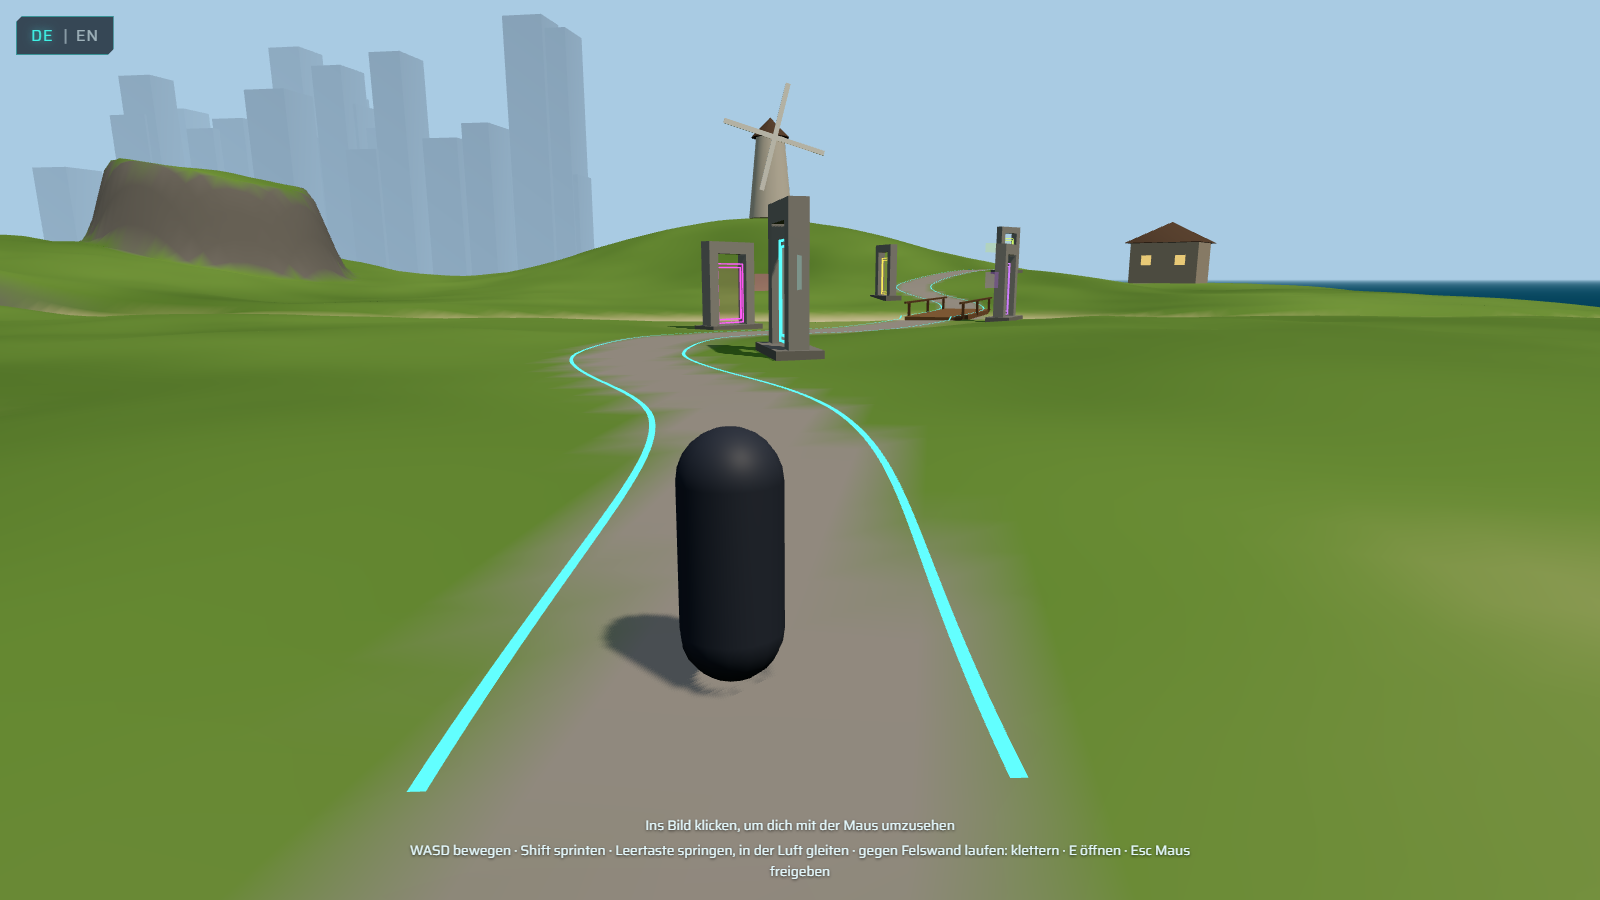
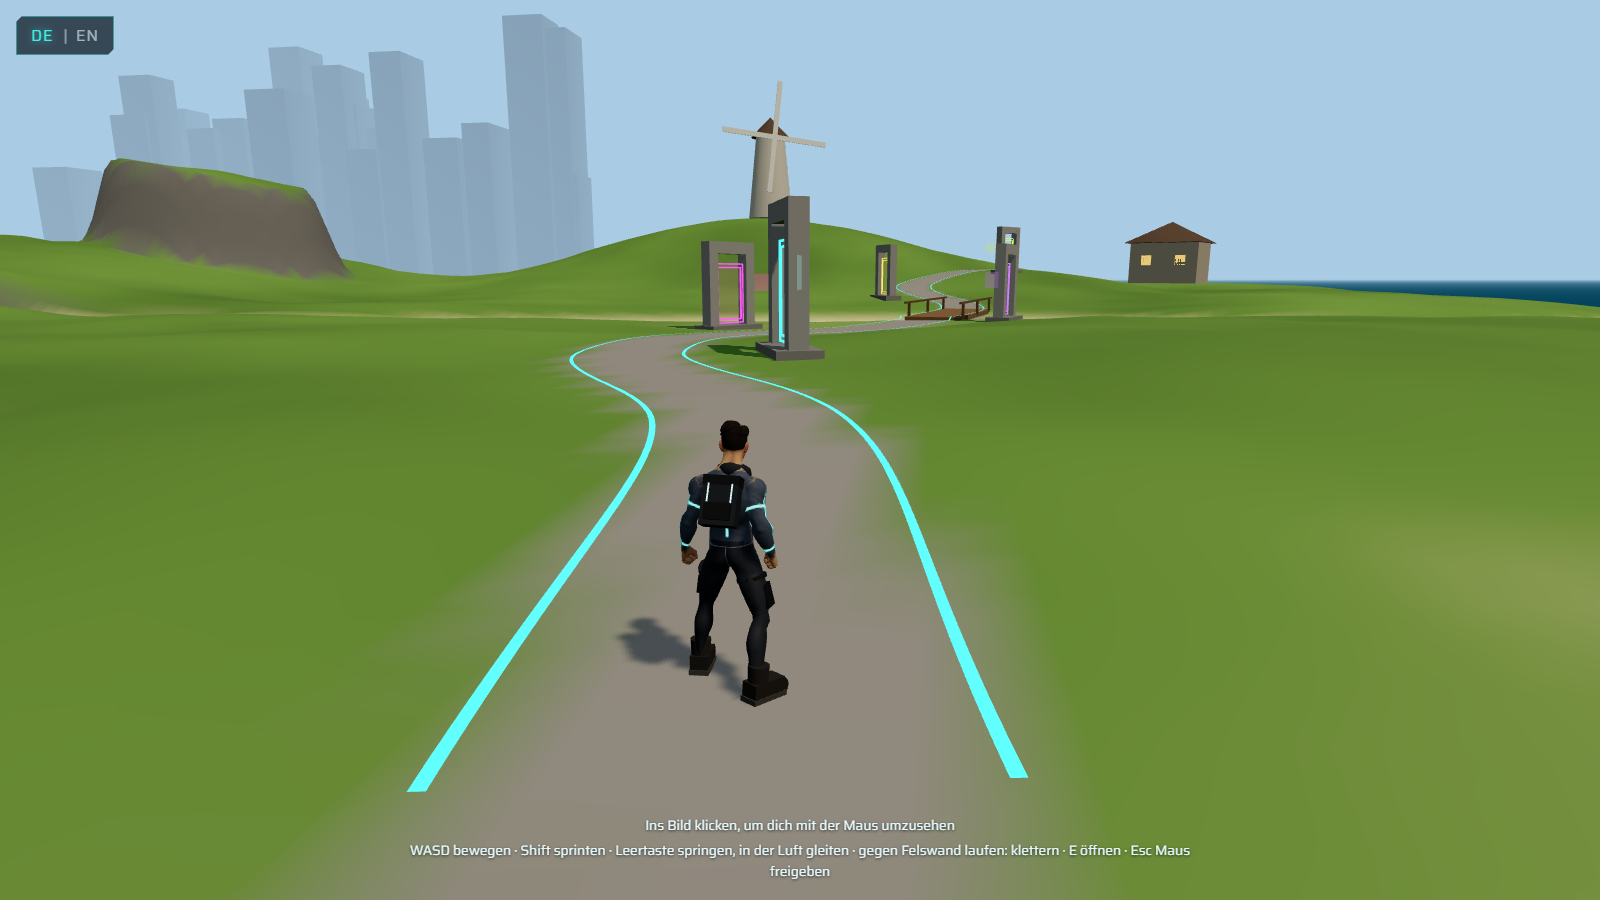
Tests und Screenshots: Charakter-Ansichten, Aktionsaufnahmen, Animationsprüfungen
char-*-Shots mit erzwungenem Animationszustand, screenshots:action aus der Spielkamera, Smoke-Test prüft Animationszustände; Gleiter-Tests zustandsbasiert statt zeitabhängig.

Changed region(s): [[0.375, 0.4667, 0.5, 0.7778], [0.4375, 0.0933, 0.5312, 0.2178]]

diff --git a/scripts/movement-tests.ts b/scripts/movement-tests.ts
@@ -9,6 +9,7 @@ import type { Page } from 'playwright';
 import {
   getPlayer,
   measureFps,
+  openGlider,
   speedBetween,
   teleport,
   waitForPlayer,
@@ -50,6 +51,8 @@ export async function runMovementTests(page: Page, check: Check) {
     p1 = await getPlayer(page);
     const sprintSpeed = speedBetween(p0, p1);
     check(sprintSpeed > walkSpeed * 1.4, 'Shift sprintet schneller als Gehen', `${walkSpeed.toFixed(1)} → ${sprintSpeed.toFixed(1)} m/s`);
+    check(p1.anim === 'sprint', 'Animation: Sprint', p1.anim);
+    check(walkSpeed > 3 && walkSpeed < 5.5, 'Gehtempo passt zur Jog-Animation', walkSpeed.toFixed(1));
     check(p1.stamina < 0.85, 'Sprinten verbraucht Ausdauer', `${(p1.stamina * 100).toFixed(0)} %`);
     check(
       (await page.getByTestId('stamina').getAttribute('data-visible')) === 'true',
@@ -83,6 +86,7 @@ export async function runMovementTests(page: Page, check: Check) {
     await waitSimSeconds(page, 1);
     const b = await getPlayer(page);
     check(Math.abs(b.y - a.y) < 0.3 && b.y > -1.6 && b.y < -0.6, 'Schwimmer treibt an der Oberfläche', `Füße y=${b.y.toFixed(2)}`);
+    check(b.anim === 'swim' && b.lift > 0.3, 'Animation: Schwimmen, Körper an die Oberfläche angehoben', `${b.anim}, Anhebung ${b.lift.toFixed(2)}`);
     const swimSpeed = speedBetween(a, b);
     check(swimSpeed > 1.5 && swimSpeed < 3.5, 'Schwimmen ist langsamer als Gehen', `${swimSpeed.toFixed(1)} m/s`);
 
@@ -119,6 +123,7 @@ export async function runMovementTests(page: Page, check: Check) {
     await keys.down(page, 'KeyW');
     const climbing = await waitForPlayer(page, "p.mode === 'climb'", 20000);
     check(climbing, 'Gegen Felswand laufen → Klettern startet');
+    check(await waitForPlayer(page, "p.anim === 'climb'", 2000), 'Animation: Kletterpose');
     const c0 = await getPlayer(page);
     await waitSimSeconds(page, 1);
     const c1 = await getPlayer(page);
@@ -188,11 +193,10 @@ export async function runMovementTests(page: Page, check: Check) {
     const topY = (await getPlayer(page)).y;
     await keys.down(page, 'KeyW');
     await waitForPlayer(page, `p.y < ${topY - 0.4} || p.x > ${rock.x + rock.radius - 1}`, 20000);
-    await page.keyboard.press('Space'); // jump (or coyote jump) off the edge
-    await waitSimSeconds(page, 0.35);
-    await page.keyboard.press('Space'); // open the glider
-    const gliding = await waitForPlayer(page, "p.mode === 'glide'", 3000);
+    // Jump off the edge and open the glider once high enough above the ground.
+    const gliding = await openGlider(page);
     check(gliding, 'Von der Kante springen, Leertaste in der Luft → Gleiter öffnet');
+    check(await waitForPlayer(page, "p.anim === 'glide'", 2000), 'Animation: Hängepose am Gleiter');
     const g0 = await getPlayer(page);
     await waitSimSeconds(page, 1.2);
     const g1 = await getPlayer(page);
@@ -211,13 +215,7 @@ export async function runMovementTests(page: Page, check: Check) {
     await teleport(page, rock.x + rock.radius - 4, rock.z, yawFor(1, 0));
     await keys.down(page, 'KeyW');
     await waitForPlayer(page, `p.y < ${topY - 0.4} || p.x > ${rock.x + rock.radius - 1}`, 20000);
-    await page.keyboard.press('Space');
-    let opened = false;
-    for (let i = 0; i < 4 && !opened; i++) {
-      await waitSimSeconds(page, 0.25);
-      await page.keyboard.press('Space');
-      opened = await waitForPlayer(page, "p.mode === 'glide'", 1000);
-    }
+    const opened = await openGlider(page);
     await waitSimSeconds(page, 0.3);
     await page.keyboard.press('Space');
     const closed = await waitForPlayer(page, "p.mode === 'air' || p.mode === 'ground'", 3000);

diff --git a/scripts/action-shots.ts b/scripts/action-shots.ts
@@ -1,0 +1,84 @@
+/**
+ * Screenshots from the real follow camera while the character actually moves:
+ * climbing, pulling up, gliding, swimming and sprinting.
+ *
+ *   npm run build && npm run screenshots:action
+ */
+import { mkdir } from 'node:fs/promises';
+import { resolve } from 'node:path';
+import type { Page } from 'playwright';
+import { waitForScene, withPreviewPage } from './browser.ts';
+import { openGlider, teleport, waitForPlayer, waitSimSeconds, yawFor, type DebugWindow } from './debug-api.ts';
+
+const OUT_DIR = resolve('docs/screenshots');
+const only = process.argv.slice(2);
+await mkdir(OUT_DIR, { recursive: true });
+
+async function shot(page: Page, name: string) {
+  if (only.length && !only.includes(name)) return;
+  const file = resolve(OUT_DIR, `action-${name}.png`);
+  await page.screenshot({ path: file });
+  console.log(`• ${name} → ${file}`);
+}
+
+await withPreviewPage(async (page, baseUrl) => {
+  await page.goto(`${baseUrl}?debug`);
+  await waitForScene(page);
+  const rock = await page.evaluate(() => (window as DebugWindow).__debug!.climbRock());
+  const cam = (pitch: number, distance: number) =>
+    page.evaluate(([p, d]) => (window as DebugWindow).__debug!.setCamera(p!, d!), [pitch, distance] as const);
+
+  // Climbing the rock (camera behind and slightly below).
+  await cam(-0.05, 4.5);
+  await teleport(page, rock.x + rock.radius + 4, rock.z, yawFor(-1, 0));
+  await page.keyboard.down('KeyW');
+  await waitForPlayer(page, "p.mode === 'climb'", 20000);
+  await waitSimSeconds(page, 1.6);
+  await shot(page, 'climb');
+  await waitForPlayer(page, "p.mode === 'mantle'", 20000);
+  await waitSimSeconds(page, 0.15);
+  await shot(page, 'mantle');
+  await page.keyboard.up('KeyW');
+  await waitForPlayer(page, "p.mode === 'ground'", 10000);
+
+  // Gliding off the rock.
+  await cam(-0.15, 6);
+  await teleport(page, rock.x + rock.radius - 4, rock.z, yawFor(1, 0));
+  const topY = (await page.evaluate(() => (window as DebugWindow).__debug!.player())).y;
+  await page.keyboard.down('KeyW');
+  await waitForPlayer(page, `p.y < ${topY - 0.4} || p.x > ${rock.x + rock.radius - 1}`, 20000);
+  await openGlider(page);
+  await waitSimSeconds(page, 0.8);
+  await shot(page, 'glide');
+  await page.keyboard.up('KeyW');
+  await waitForPlayer(page, "p.mode === 'ground' || p.mode === 'swim'", 30000);
+
+  // Swimming.
+  await cam(-0.2, 5);
+  await teleport(page, 2, 54, yawFor(0, 1));
+  await page.keyboard.down('KeyW');
+  await waitForPlayer(page, "p.mode === 'swim'", 30000);
+  await waitSimSeconds(page, 1.5);
+  await page.evaluate((y) => (window as DebugWindow).__debug!.setYaw(y), yawFor(1, 0));
+  await waitSimSeconds(page, 1.2);
+  await shot(page, 'swim');
+  await page.keyboard.up('KeyW');
+  await waitSimSeconds(page, 1.5);
+  await shot(page, 'swim-idle');
+
+  // Sprinting along the path.
+  await cam(-0.2, 5.5);
+  await teleport(page, 10, 25, yawFor(1, 0));
+  await page.keyboard.down('KeyW');
+  await page.keyboard.down('ShiftLeft');
+  await waitSimSeconds(page, 1.2);
+  await shot(page, 'sprint');
+  await page.keyboard.up('ShiftLeft');
+  await page.keyboard.up('KeyW');
+
+  // Jump.
+  await waitSimSeconds(page, 0.8);
+  await page.keyboard.press('Space');
+  await waitSimSeconds(page, 0.3);
+  await shot(page, 'jump');
+});

diff --git a/src/systems/shots.ts b/src/systems/shots.ts
@@ -13,6 +13,13 @@ export interface ShotConfig {
   player: 'spawn' | { portalIndex: number };
   pitch?: number;
   distance?: number;
+  /**
+   * Fixed camera relative to the player at spawn: metres in front, to the
+   * right and above the feet, looking at `lookHeight` above the feet.
+   */
+  facePlayer?: { front: number; right: number; up: number; lookHeight: number };
+  /** Force a character animation state (see Character.tsx). */
+  animState?: string;
   /** Open the overlay of the portal the player stands at. */
   openOverlay?: boolean;
 }
@@ -28,6 +35,13 @@ export const SHOTS = {
     fixedCamera: { position: [-38, 20, -2], target: [-74, 7, -26] },
     player: 'spawn',
   },
+  /** Character close-ups (Phase 3), compare with 06-character-sheet.png. */
+  'char-idle': { player: 'spawn', facePlayer: { front: 3, right: 0.9, up: 1.2, lookHeight: 0.95 }, animState: 'idle' },
+  'char-run': { player: 'spawn', facePlayer: { front: 3, right: 1.6, up: 1.1, lookHeight: 0.95 }, animState: 'jog' },
+  'char-climb': { player: 'spawn', facePlayer: { front: -2.6, right: 1.4, up: 1.4, lookHeight: 1.1 }, animState: 'climb' },
+  'char-glide': { player: 'spawn', facePlayer: { front: 3.6, right: 1.4, up: 1.0, lookHeight: 1.4 }, animState: 'glide' },
+  'char-swim': { player: 'spawn', facePlayer: { front: 3, right: 1.4, up: 1.3, lookHeight: 0.8 }, animState: 'swim' },
+  'char-back': { player: 'spawn', facePlayer: { front: -2.8, right: 0.8, up: 1.3, lookHeight: 1.0 }, animState: 'idle' },
   portal: { player: { portalIndex: 0 }, pitch: -0.18, distance: 6 },
   overlay: { player: { portalIndex: 0 }, pitch: -0.18, distance: 6, openOverlay: true },
 } satisfies Record<string, ShotConfig>;

diff --git a/scripts/debug-api.ts b/scripts/debug-api.ts
@@ -13,6 +13,33 @@ export interface PlayerInfo {
   exhausted: boolean;
   /** Simulation time in seconds. */
   time: number;
+  /** Character animation state (see src/player/Character.tsx). */
+  anim: string;
+  lift: number;
+  speed: number;
+  /** Height of the feet above ground or water. */
+  agl: number;
+}
+
+/**
+ * Gets the player into the glider from wherever they are near an edge:
+ * jumps when on the ground, opens the glider once high enough in the air.
+ * Holds W the whole time. Returns true when gliding.
+ */
+export async function openGlider(page: Page, timeoutMs = 15000): Promise<boolean> {
+  const deadline = Date.now() + timeoutMs;
+  while (Date.now() < deadline) {
+    const p = await getPlayer(page);
+    if (p.mode === 'glide') return true;
+    if (p.mode === 'swim') return false;
+    if (p.mode === 'ground' || (p.mode === 'air' && p.agl > 1.5)) {
+      await page.keyboard.press('Space');
+      await waitSimSeconds(page, 0.2);
+      continue;
+    }
+    await waitSimSeconds(page, 0.05);
+  }
+  return false;
 }
 
 /** Horizontal speed between two samples, in metres per *simulation* second. */

diff --git a/scripts/screenshots.ts b/scripts/screenshots.ts
@@ -12,7 +12,7 @@ import { resolve } from 'node:path';
 import { waitForScene, webglRenderer, withPreviewPage } from './browser.ts';
 
 // Must match SHOTS in src/systems/shots.ts.
-const ALL_SHOTS = ['overview', 'gameplay', 'rock', 'portal', 'overlay'];
+const ALL_SHOTS = ['overview', 'gameplay', 'rock', 'char-idle', 'char-back', 'char-run', 'char-climb', 'char-glide', 'char-swim', 'portal', 'overlay'];
 const OUT_DIR = resolve('docs/screenshots');
 
 const requested = process.argv.slice(2);

diff --git a/scripts/browser.ts b/scripts/browser.ts
@@ -23,6 +23,9 @@ export async function withPreviewPage(run: (page: Page, baseUrl: string) => Prom
       if (msg.type() === 'error') console.error(`  [browser] ${msg.text()}`);
     });
     page.on('pageerror', (err) => console.error(`  [pageerror] ${err.message}`));
+    page.on('response', (res) => {
+      if (res.status() >= 400) console.error(`  [http ${res.status()}] ${res.url()}`);
+    });
     await run(page, baseUrl);
   } finally {
     await browser.close();

diff --git a/CLAUDE.md b/CLAUDE.md
@@ -29,7 +29,9 @@ Begehbare 3D-Portfolio-Webseite von Kevin: eine Insel im Mix aus Fantasy-Open-Wo
 - `npm run typecheck` – `tsc --noEmit`
 - `npm run lint` – ESLint
 - `npm run screenshots` – Playwright-Skript, das Referenzansichten (Tag, Dämmerung, Nacht, Portal nah, Overlay offen, Startscreen) nach `docs/screenshots/` rendert
-- `npm run test:smoke` – Playwright-Smoke-Test des Builds (Laufen, Springen, ganzer Pfad, alle Portale, Overlay, DE/EN, Esc); vorher `npm run build`
+- `npm run screenshots:action` – Aufnahmen aus der Spielkamera beim Klettern, Hochziehen, Gleiten, Schwimmen, Sprinten, Springen
+- `npm run test:smoke` – Playwright-Smoke-Test des Builds (Welt, Portale, Overlay, DE/EN sowie alle Bewegungen und Animationszustände); vorher `npm run build`
+- `npm run assets:character` – baut `public/assets/models/character*.glb` aus den Quaternius-Paketen (liegen außerhalb des Repos in `../asset-downloads/extracted`, siehe `scripts/assets/source-files.ts`)
 
 ## Projektstruktur
 ```
